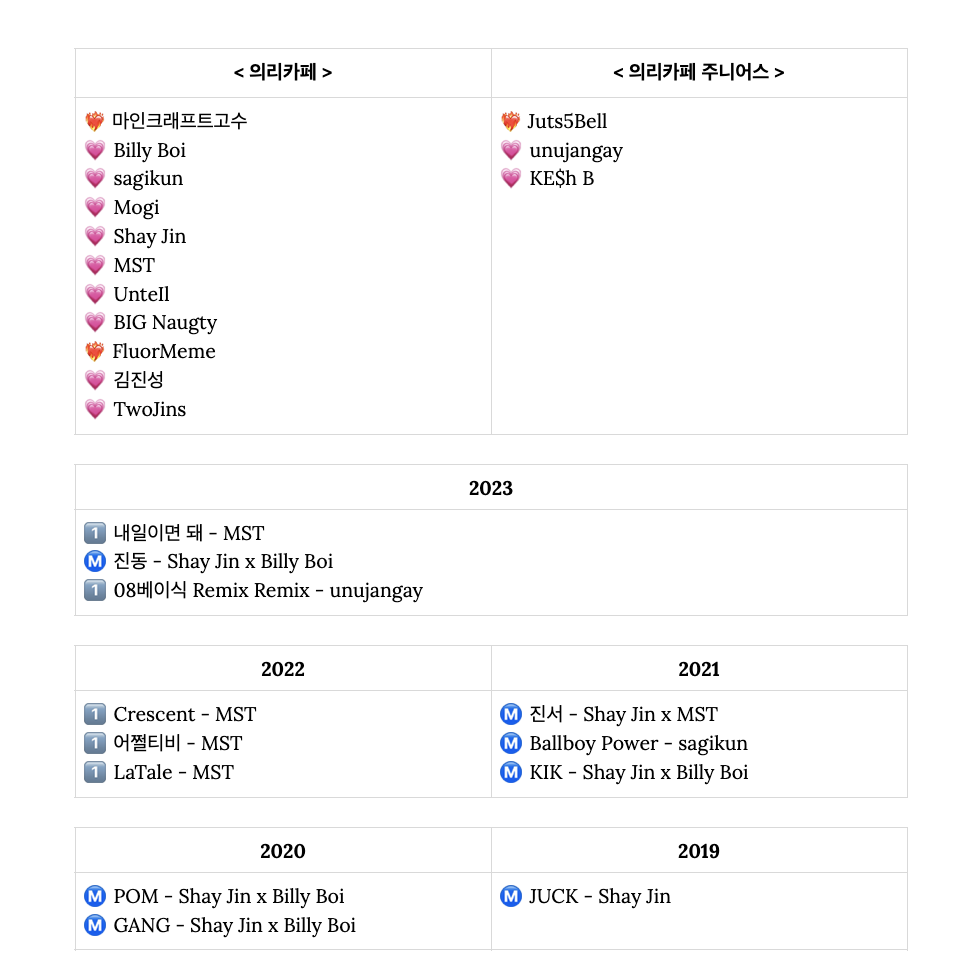
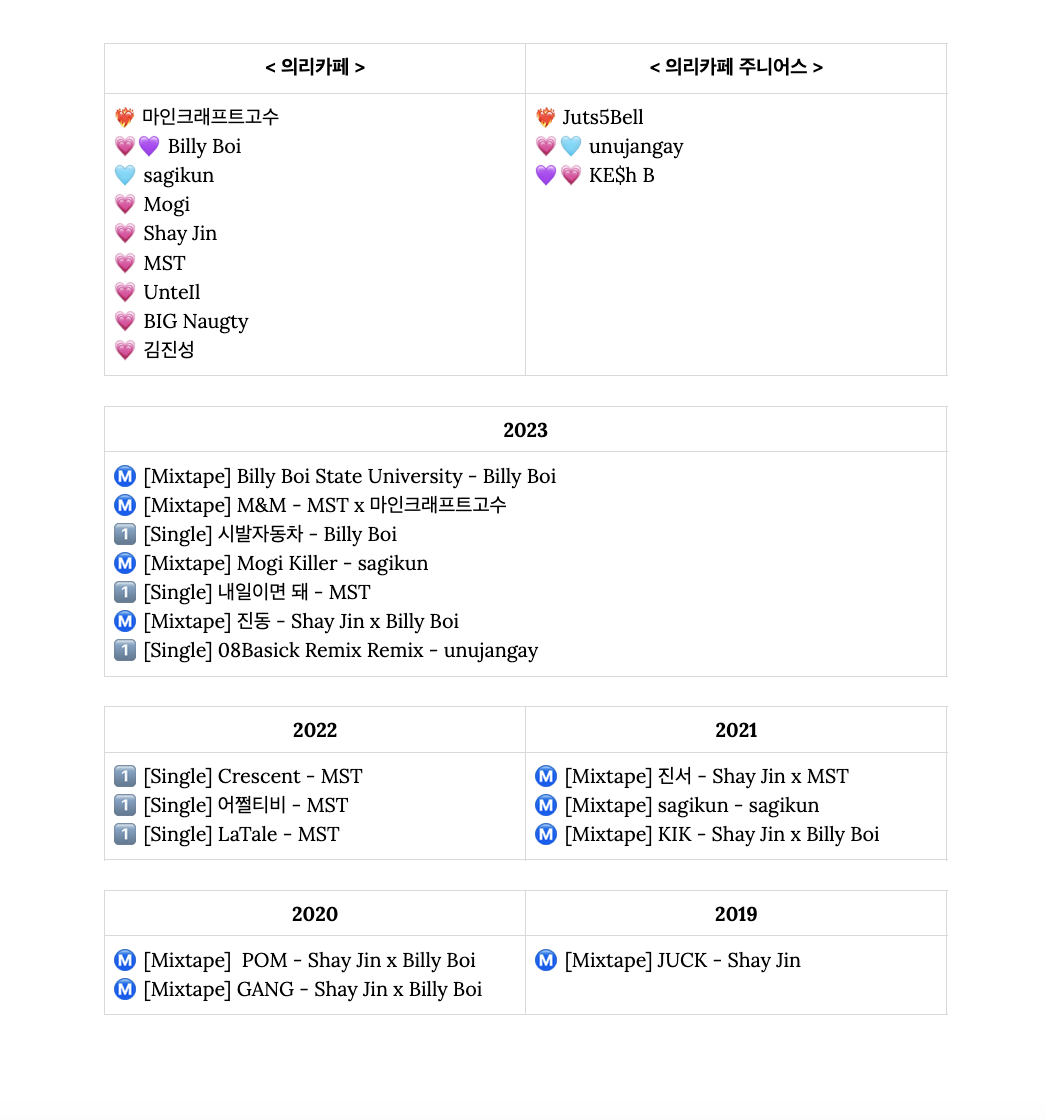
.

diff --git a/src/DB/Albums.js b/src/DB/Albums.js
@@ -1,38 +1,34 @@
 const ALBUMS = [
     {
-        name: "시발자동차",
-        engName: "sibalcar",
-        artist: "Billy Boi & 김도윤 & 김영석",
-        date: "2023.08.05",
-        type: "싱글",
-        cover: "FluorMeme",
-        mm: "Juts5Bell",
+        name: "Billy Boi State University",
+        engName: "Billy Boi State University",
+        artist: "Billy Boi",
+        date: "2023.10.01",
+        type: "Mixtape",
+        cover: "Billy Boi",
+        mm: "마인크래프트고수",
         songs: [
-            {name: "시발자동차", producer: ["마인크래프트고수"]}
+            {name: "#정원식2", producer: ["마인크래프트고수"]},
+            {name: "JaenaN", producer: ["마인크래프트고수"], feature: ["Shay Jin"]},
+            {name: "LeeHain 2001", producer: ["FluorMeme"]},
+            {name: "시발자동차", producer: ["마인크래프트고수"], feature: ["Hareubang", "김영석"]},
+            {name: "Interview Interruption (Skit)", producer: ["Juts5Bell"], feature: ["sagikun"]},
+            {name: "All No Matter", producer: ["FluorMeme"], feature: ["Verde", "160 linn"]},
         ]
     },
     {
-        name: "알바두탕",
-        engName: "albadutang",
-        artist: "160 linn & LOGOS & 성진현",
-        date: "2023.08.05",
-        type: "싱글",
-        cover: "FluorMeme",
-        mm: "link505",
+        name: "M&M",
+        engName: "m&m",
+        artist: "MST & 마인크래프트고수",
+        date: "2023.08.14",
+        type: "Mixtape",
+        cover: "KE$h B",
+        mm: "마인크래프트고수",
         songs: [
-            {name: "알바두탕", producer: ["konu"]}
-        ]
-    },
-    {
-        name: "All No Matter",
-        engName: "All No Matter",
-        artist: "160 linn & Billy Boi & Verde",
-        date: "2023.06.26",
-        type: "싱글",
-        cover: "Verde",
-        mm: "Juts5Bell",
-        songs: [
-            {name: "All No Matter", producer: ["FluorMeme"]}
+            {name: "시발자동차 2", producer: ["마인크래프트고수"], feature: ["Nike Sangwoo"]},
+            {name: "나르샤", producer: ["마인크래프트고수"]},
+            {name: "몽환의 숲", producer: ["마인크래프트고수"]},
+            {name: "M&M Freestyle", producer: ["마인크래프트고수"], feature: ["Billy Boi"]}
         ]
     },
     {
@@ -159,12 +155,12 @@ const ALBUMS = [
         mm: "마인크래프트고수",
         songs: [
             { name: "Bustdown!", producer: ["마인크래프트고수"] },
-            { name: "기분조 은바람", producer: ["마인크래프트고수"], feature: ["Dok3"] },
+            { name: "Gibunjo Silver Wind", producer: ["마인크래프트고수"], feature: ["Dok3"] },
             { name: "두진서 Freestyle", producer: ["마인크래프트고수"] },
             { name: "ruf", producer: ["마인크래프트고수"], feature: ["UnteIl"] },
             { name: "노인공격", producer: ["마인크래프트고수"], feature: ["Big anDre's Bo$$", "shinji", "Davy Jones"] },
             { name: "bbbp", producer: ["마인크래프트고수"], feature: ["Billy Boi"] },
-            { name: "딕소스!", producer: ["마인크래프트고수"], feature: ["sagikun"] },
+            { name: "Dick Sauce!", producer: ["마인크래프트고수"], feature: ["sagikun"] },
             { name: "신지혜 만날래!", producer: ["마인크래프트고수"], feature: ["김진성", "Fi$h"] }
         ]
     },
@@ -248,7 +244,7 @@ const ALBUMS = [
             { name: "20.5학번 Freestyle", producer: ["마인크래프트고수"] },
             { name: "rod", producer: ["마인크래프트고수"], feature: ["Mogi"] },
             { name: "돼지흥분제", producer: ["마인크래프트고수"] },
-            { name: "삭베아", producer: ["마인크래프트고수"] }
+            { name: "Shark Veya", producer: ["마인크래프트고수"] }
         ]
     },
     {
@@ -261,11 +257,11 @@ const ALBUMS = [
         mm: "마인크래프트고수",
         songs: [
             { name: "Abyss", producer: ["마인크래프트고수"], feature: ["Profe Morris", "Fi$h"] },
-            { name: "공고문", producer: ["마인크래프트고수"], feature: ["shinji"] },
-            { name: "힙합 전사들", producer: ["마인크래프트고수"], feature: ["Profe Morri$", "ViggyMcPiggy"] },
-            { name: "마인크래프트 Freestyle", producer: ["마인크래프트고수"], feature: ["Lil Sillyman", "Money McDermott"] },
+            { name: "Gonggomoon", producer: ["마인크래프트고수"], feature: ["shinji"] },
+            { name: "Hiphop Warriors", producer: ["마인크래프트고수"], feature: ["Profe Morri$", "ViggyMcPiggy"] },
+            { name: "Minecraft Freestyle", producer: ["마인크래프트고수"], feature: ["Lil Sillyman", "Money McDermott"] },
             { name: "Juck Fose!", producer: ["마인크래프트고수"], feature: ["Mijo", "Fi$h"] },
-            { name: "멈블랩", producer: ["마인크래프트고수"], feature: ["Fi$h", "Profe Morri$"] },
+            { name: "Mumble Rap!", producer: ["마인크래프트고수"], feature: ["Fi$h", "Profe Morri$"] },
             { name: "181230", producer: ["마인크래프트고수"], feature: ["Lasaga Boi", "Mark Kim", "Big anDre's Bo$$"] },
             { name: "Trying to...", producer: ["마인크래프트고수"], feature: ["Fi$h"] },
             { name: "#530", producer: ["마인크래프트고수"], feature: ["Lasaga Boi", "Big anDre's Bo$$"] },

diff --git a/src/DB/Artists.js b/src/DB/Artists.js
@@ -1,37 +1,37 @@
 const ARTISTS = [
     {
         name: "마인크래프트고수",
-        music: ["시발자동차", "Mogi Killer", "진동", "sagikun", "진서", "KIK", "POM", "GANG", "JUCK"],
+        music: ["Billy Boi State University", "M&M", "Mogi Killer", "진동", "sagikun", "진서", "KIK", "POM", "GANG", "JUCK"],
         since: "2013.10.05",
         position: "리더, 프로듀서"
     },
     {
         name: "Billy Boi",
-        music: ["시발자동차", "All No Matter", "진동", "08Basick Remix Remix", "진서", "KIK", "POM", "GANG", "JUCK"],
+        music: ["Billy Boi State University", "M&M", "진동", "08Basick Remix Remix", "진서", "KIK", "POM", "GANG", "JUCK"],
         since: "2013.10.16",
         position: "래퍼, 디자이너"
     },
     {
         name: "sagikun",
-        music: ["Mogi Killer", "진동", "sagikun", "진서", "KIK", "POM"],
+        music: ["Billy Boi State University", "M&M", "Mogi Killer", "진동", "sagikun", "진서", "KIK", "POM"],
         since: "2014.01.19",
-        position: "래퍼, 스키터"
+        position: "스키터"
     },
     {
         name: "Mogi",
         music: ["Mogi Killer", "진동", "KIK", "POM", "GANG"],
         since: "2014.02.07",
-        position: "래퍼"
+        position: "스키터"
     },
     {
         name: "Shay Jin",
-        music: ["진동", "sagikun", "진서", "KIK", "POM", "GANG", "JUCK"],
+        music: ["Billy Boi State University", "진동", "sagikun", "진서", "KIK", "POM", "GANG", "JUCK"],
         since: "2019.05.01",
         position: "래퍼"
     },
     {
         name: "MST",
-        music: ["내일이면돼", "진동", "Cresent", "어쩔티비", "LaTale", "진서", "KIK"],
+        music: ["M&M", "내일이면돼", "진동", "Cresent", "어쩔티비", "LaTale", "진서", "KIK"],
         since: "2021.08.16",
         position: "래퍼"
     },
@@ -45,30 +45,12 @@ const ARTISTS = [
         name: "BIG Naugty",
         music: ["Mogi Killer", "sagikun", "KIK", "POM"],
         since: "2022.07.01",
-        position: "래퍼"
-    },
-    {
-        name: "FluorMeme",
-        music: ["시발자동차", "알바두탕", "All No Matter", "Cresent", "어쩔티비", "LaTale", "KIK", "GANG"],
-        since: "2023.01.03",
-        position: "프로듀서"
+        position: "스키터"
     },
     {
         name: "김진성",
         music: ["진서"],
         since: "2023.04.19",
-        position: "래퍼"
-    },
-    {
-        name: "TwoJins",
-        music: [],
-        since: "2023.04.19",
-        position: "래퍼"
-    },
-    {
-        name: "160 linn",
-        music: ["알바두탕", "All No Matter"],
-        since: "2023.06.25",
         position: "래퍼"
     }
 ];

diff --git a/src/Album.js b/src/Album.js
@@ -12,6 +12,11 @@ export const Album = () => {
     var url = window.location.href;
     url = url.substring(url.lastIndexOf("/") + 1).replaceAll("_", " ");
     console.log(url);
+
+    if (url === "%E3%81%AF%E3%82%89%E3%81%90%E3%82%8D") {
+        url = "はらぐろ";
+    }
+
     for (var alb of ALBUMS) {
         if (alb.engName === url) {
             album = alb;
@@ -174,6 +179,7 @@ export const Album = () => {
             var a = ARTISTS[index];
             console.log(a.name);
             if (a.name === album.cover) {
+                console.log("HI")
                 cover.push(<Link className="viewProj" to={`/ERCF/Artist/${ARTISTS[index].name.replace(" ", "_")}`} >{album.cover}</Link>);
                 break;
             }
@@ -199,7 +205,7 @@ export const Album = () => {
                 <div className="album" >
                     <img src={img}/>
                     <p><b>[{album.type}] {album.name} - {artistArray} ({album.date})</b></p>
-                    <p>Cover Design: {cover}</p>
+                    <p>Cover Design: {album.cover}</p>
                     <table>
                         <tr>
                             <th>#</th>

diff --git a/src/DB/JuniorArtists.js b/src/DB/JuniorArtists.js
@@ -1,7 +1,7 @@
 const JUNIOR_ARTISTS = [
     {
         name: "Juts5Bell",
-        music: ["진동"],
+        music: ["Billy Boi State University", "진동"],
         since: "2023.01.26",
         position: "프로듀서"
     },
@@ -13,28 +13,10 @@ const JUNIOR_ARTISTS = [
     },
     {
         name: "KE$h B",
-        music: ["Mogi Killer", "진동"],
+        music: ["M&M", "Mogi Killer", "진동"],
         since: "2023.04.11",
-        position: "래퍼, 디자이너"
-    },
-    {
-        name: "김도윤",
-        music: ["시발자동차"],
-        since: "2023.05.15",
-        position: "래퍼"
-    },
-    {
-        name: "김영석",
-        music: ["시발자동차"],
-        since: "2023.05.15",
-        position: "래퍼"
-    },
-    {
-        name: "Verde",
-        music: ["All No Matter"],
-        since: "2023.06.26",
-        position: "래퍼"
-    },
+        position: "디자이너"
+    }
 ];
 
 export default JUNIOR_ARTISTS;

diff --git a/src/Music.js b/src/Music.js
@@ -12,6 +12,7 @@ export const Music = () => {
         album.picture = require("./sources/" + album.name.replaceAll(" ", "_").toLowerCase() + ".png");
         console.log(album.picture);
         if (album.name == "sagikun") album.picture = require("./sources/sagikun_album.png");
+        if (album.name == "shawty!") album.picture = require("./sources/shawty.png");
 
         li.push(
             <li>

diff --git a/src/App.js b/src/App.js
@@ -35,8 +35,8 @@ function GroupPic() {
   return (
     <>
           <img className="main-pic" src={require("./sources/group.png")} />
+          <img className="main-pic" src={require("./sources/billy_boi_state_university.png")} />
           <img className="history" src={require("./sources/history1.png")} />
-      <img className="history" src={require("./sources/history2.png")} />
     </>
   );
 }

diff --git a/src/Artist.js b/src/Artist.js
@@ -19,14 +19,6 @@ export const Artist = () => {
         url = "김진성";
     }
 
-    if (url === "%EA%B9%80%EB%8F%84%EC%9C%A4") {
-        url = "김도윤";
-    }
-
-    if (url === "%EA%B9%80%EC%98%81%EC%84%9D") {
-        url = "김영석";
-    }
-
     for (var art of ARTISTS) {
         if (art.name === url) {
             artist = art;

diff --git a/src/DB/ercf.js b/src/DB/ercf.js
@@ -6,17 +6,11 @@ const ercf = [
     "Shay Jin", 
     "MST", 
     "UnteIl", 
-    "FluorMeme", 
+    "BIG Naugty", 
     "김진성", 
-    "TwoJins", 
     "Juts5Bell", 
     "unujangay", 
-    "BIG Naugty", 
     "KE$h B", 
-    "김도윤",
-    "김영석",
-    "160 linn",
-    "Verde"
 ];
 
 export default ercf;
